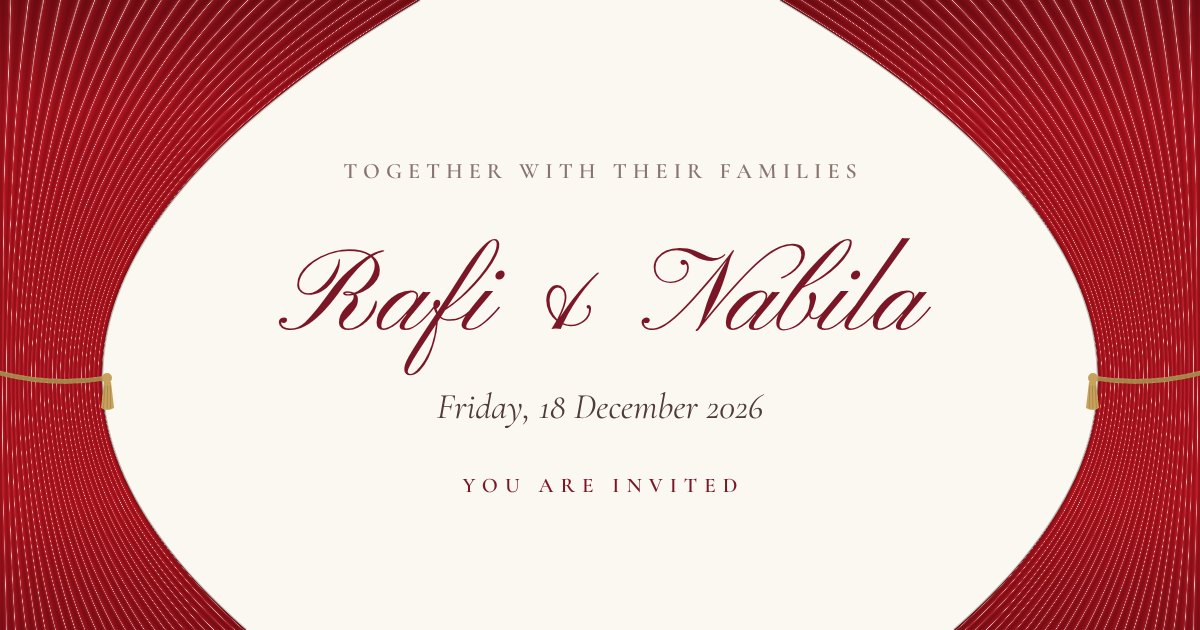
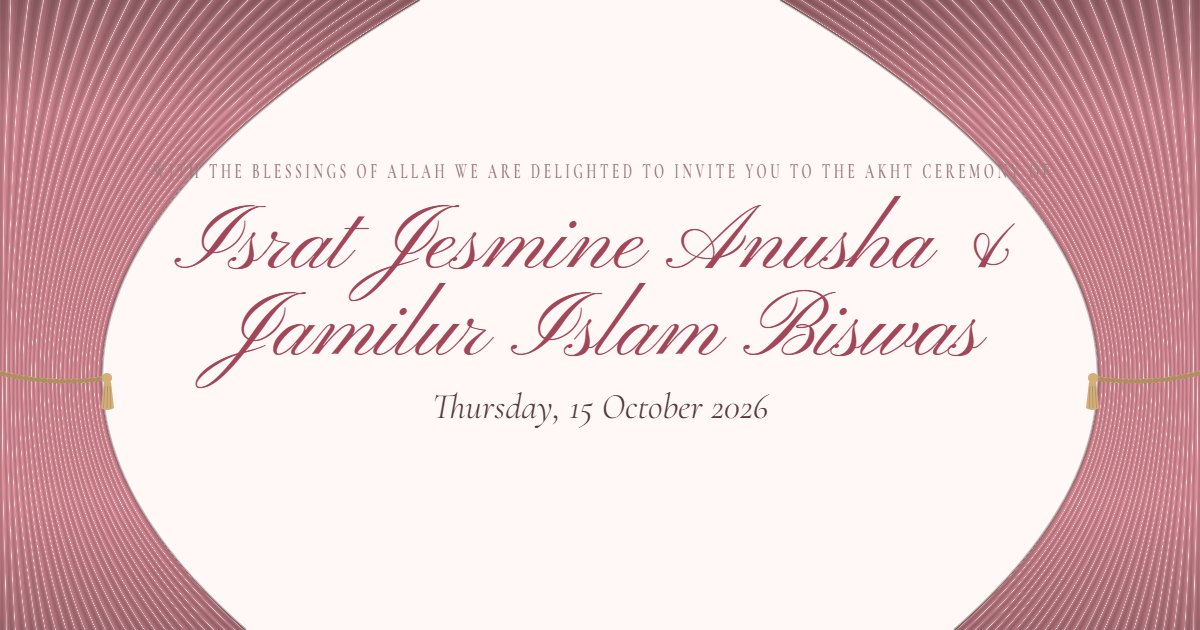
Update invitation from the editor

diff --git a/index.html b/index.html
@@ -6,12 +6,13 @@
   <meta name="robots" content="noindex, nofollow">
   <meta name="theme-color" content="#b3141f">
   <!-- SHARE:START -->
-  <title>Rafi &amp; Nabila are getting married</title>
+  <title>Israt Jesmine Anusha &amp; Jamilur Islam Biswas are getting married</title>
   <meta name="description" content="You are warmly invited. Tap to open your invitation.">
   <meta property="og:type" content="website">
-  <meta property="og:title" content="Rafi &amp; Nabila are getting married">
+  <meta property="og:url" content="https://shihab-abesh.github.io/Wedding-Invitation/">
+  <meta property="og:title" content="Israt Jesmine Anusha &amp; Jamilur Islam Biswas are getting married">
   <meta property="og:description" content="You are warmly invited. Tap to open your invitation.">
-  <meta property="og:image" content="assets/img/og.jpg">
+  <meta property="og:image" content="https://shihab-abesh.github.io/Wedding-Invitation/assets/img/og.jpg?v=mv3m02za">
   <meta property="og:image:width" content="1200">
   <meta property="og:image:height" content="630">
   <meta name="twitter:card" content="summary_large_image">
